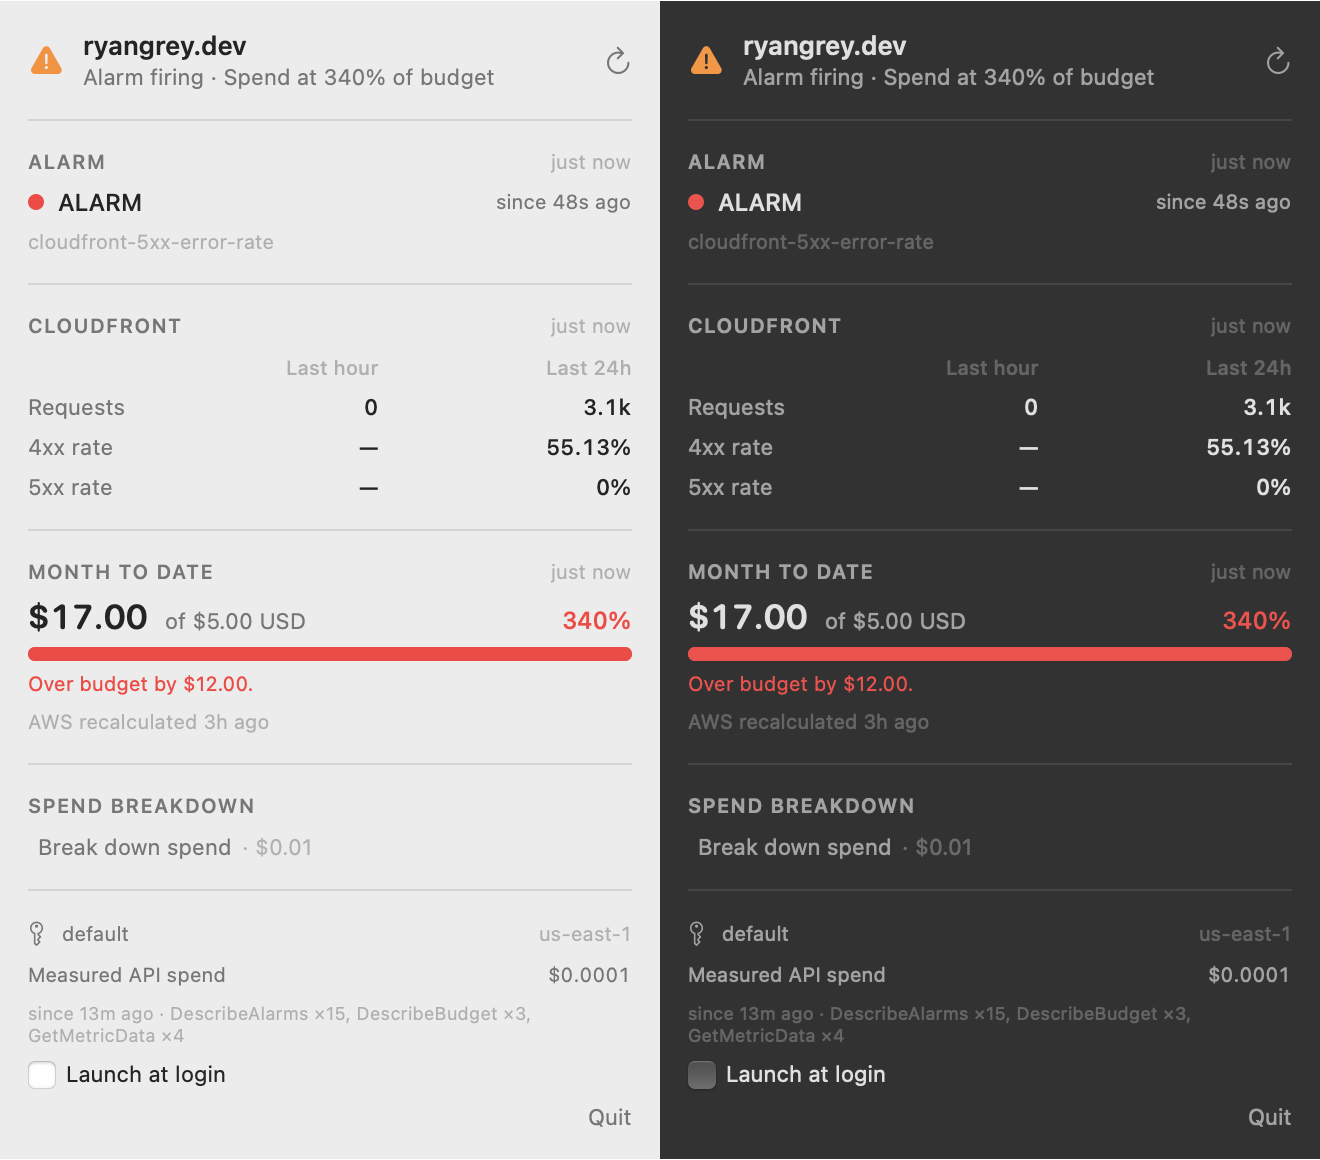
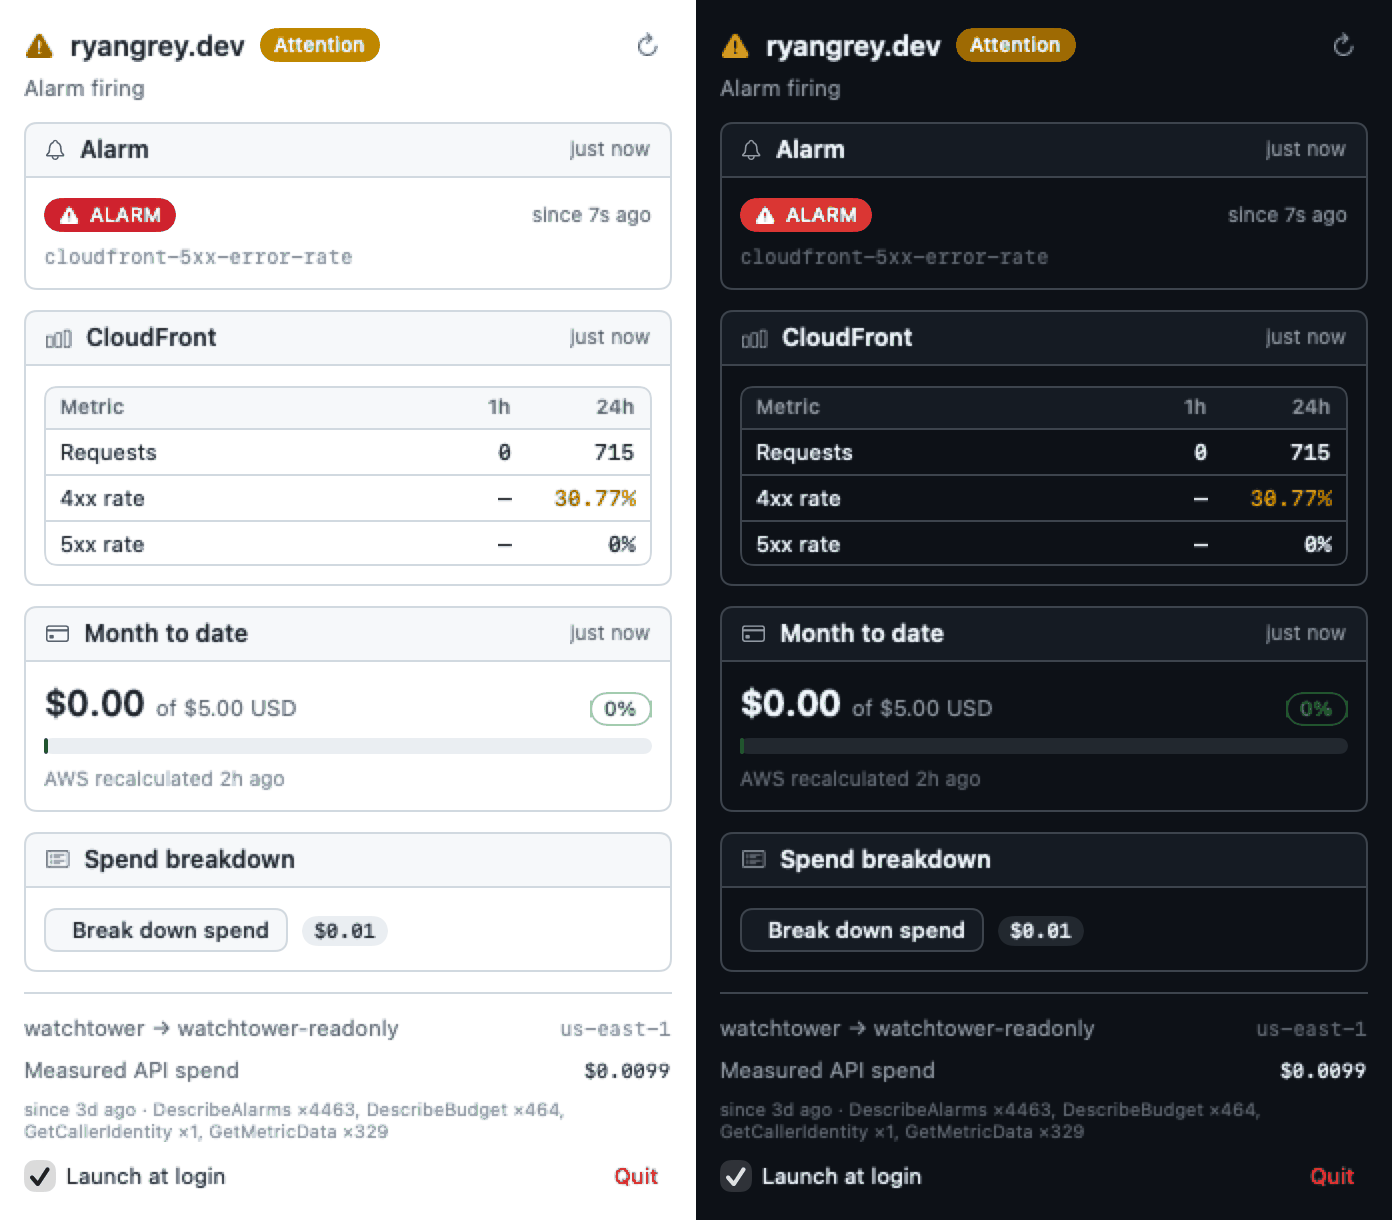
Cut 1.1.0: Primer redesign, and re-render the alarm and degraded shots
Both README shots that still showed the old styling are reproduced the same way
the originals were, on the new panel: the alarm one by forcing the live alarm
to ALARM with SetAlarmState (its real SNS -> Lambda -> SES actions fired, and it
was set back to OK once rendered), the degraded one by pointing the app at
region us-east-99 so CloudWatch fails while Budgets keeps working. Neither is a
fixture; both are the app drawing its own state.

CHANGELOG and docs/release-notes-1.1.0.md describe the redesign; VERSION bumps
to 1.1.0. No behaviour change since 067efd3.

diff --git a/docs/release-notes-1.1.0.md b/docs/release-notes-1.1.0.md
@@ -1,0 +1,57 @@
+The panel is redesigned on [Primer](https://primer.style), GitHub's design
+system, ported to SwiftUI in one dependency-free file. The repo is now MIT.
+
+Before, the panel was styled ad hoc: sizes and colours picked per view,
+`.green` and `.orange` standing in for state, sections separated by bare
+dividers. It read as a stack of rows rather than an interface, and nothing
+stopped two views that meant the same thing from being drawn differently.
+
+**Changed**
+- `Panel/Primer.swift` carries real Primer tokens (from `primer/primitives`,
+  not eyeballed) and the components the panel needs — Box, Label, Counter,
+  buttons, flash, table rules. About 350 lines, no dependency added.
+- Colour always carries a role. `PrimerRole` selects foreground, emphasis and
+  subtle background together, so no state can be styled inconsistently with
+  another, and the header glyph and its state pill can never disagree.
+- Every failure is now a flash — a tinted, bordered callout — rather than a
+  line of coloured text. A stale or failed value is the one thing this app must
+  never let you read as real, so it is louder than a healthy one, not merely a
+  different hue.
+- Colours are dynamic `NSColor`s, so `--preview` and `--render` draw a light
+  pane and a dark pane in one window, each correct for its own appearance.
+- Two deliberate departures from Primer: the budget bar still handles an
+  over-100% month and names the overage in a danger flash, and the type scale
+  is dropped two points because a menu-bar popover is denser than a page.
+
+**Added**
+- `LICENSE` — MIT.
+
+**Docs**
+- The three README renders are regenerated from the new panel on live data.
+
+No behaviour, polling, credential or cost changes. Configuration is unchanged;
+an existing install just needs the new bundle.
+
+**Install it somewhere permanent.** `dist/` is a build output that
+`scripts/make-app.sh` deletes on every build:
+
+```sh
+ditto --norsrc --noextattr --noacl dist/Watchtower.app ~/Applications/Watchtower.app
+codesign --force --sign - --timestamp=none ~/Applications/Watchtower.app
+~/Applications/Watchtower.app/Contents/MacOS/Watchtower --login-item register
+```
+
+---
+
+### This build is not notarized
+
+It is ad-hoc signed, so macOS will refuse it on first open. That is what an
+unnotarized app is, not a broken download. Either **right-click ▸ Open** the
+first time, or clear the quarantine flag:
+
+```sh
+xattr -d com.apple.quarantine /Applications/Watchtower.app
+```
+
+Building from source avoids this entirely — `scripts/make-app.sh` needs only
+Command Line Tools, no Xcode.

diff --git a/CHANGELOG.md b/CHANGELOG.md
@@ -1,5 +1,43 @@
 # Changelog
 
+## 1.1.0 — 2026-09-04
+
+**Changed: the panel is redesigned on Primer.**
+
+The panel was styled ad hoc — sizes and colours picked per view, `.green` and
+`.orange` standing in for state, sections separated by bare dividers. It read as
+a stack of rows rather than an interface, and nothing stopped two views that
+meant the same thing from being drawn differently.
+
+`Panel/Primer.swift` ports GitHub's Primer to SwiftUI: tokens taken from
+`primer/primitives` rather than eyeballed, plus the components the panel needs —
+Box, Label, Counter, btn, btn-invisible, flash, and the rules used to build
+tables. No dependency is added; it is one file of about 350 lines.
+
+- **Colour always carries a role.** `PrimerRole` selects foreground, emphasis
+  and subtle background together, so no view hand-mixes three colours and no
+  state can be styled inconsistently with another. Health maps onto a role, not
+  a tint, which is why the header glyph and its Label pill can never disagree.
+- **Every failure is a flash** — a tinted, bordered callout — instead of a line
+  of coloured text. The mistake this app exists to prevent is reading a stale
+  or failed value as a real one, so a degraded reading is visually louder than
+  a healthy one, not merely a different hue.
+- **Dynamic `NSColor`, not `@Environment(\.colorScheme)`.** `--preview` and
+  `--render` pin a light pane and a dark pane to their own `NSAppearance` in
+  one window; a dynamic provider resolves per view, which is what makes the
+  two-up screenshot possible.
+- Two places deliberately exceed Primer: the budget bar still handles more than
+  100% (ProgressBar has no state for it) and keeps the danger flash naming the
+  overage, and the type scale is Primer's 12/14/16/20 dropped two points,
+  because a menu-bar popover is denser than a page.
+
+**Added**
+- `LICENSE` — the repo is MIT.
+
+**Docs**
+- All three README renders (`docs/panel.png`, `panel-alarm.png`,
+  `panel-degraded.png`) re-rendered from the new panel on live data.
+
 ## 1.0.1 — 2026-09-01
 
 **Fixed: the app silently stopped launching at login.**
